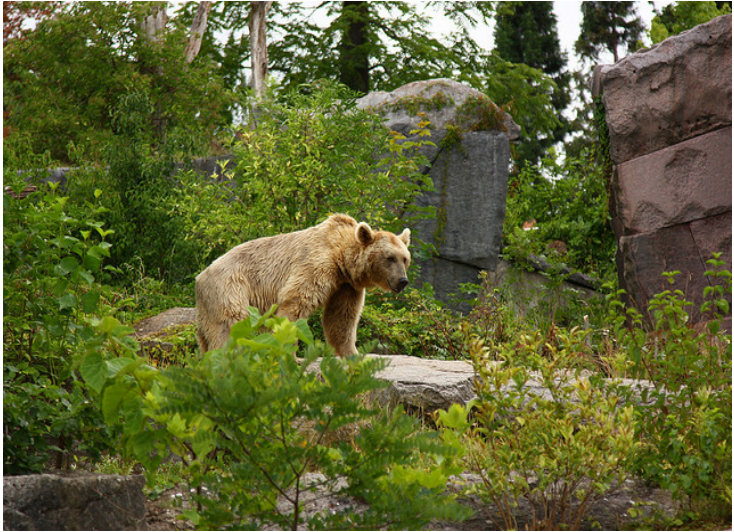
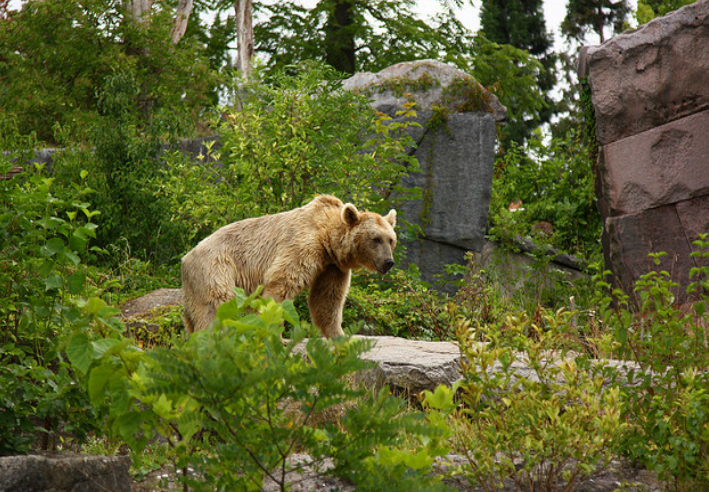
cropped anteater and bear images and removed height attr so images scale well to smaller screens

diff --git a/_posts/2017-08-09-novel-object-captioning.md b/_posts/2017-08-09-novel-object-captioning.md
@@ -16,11 +16,11 @@ Given an image, humans can easily infer the salient entities in it, and describe
   <tr>
     <td style="text-align:center;">
 			<img src="{{site.url}}{{site.baseurl}}/assets/novel_image_captioning/bear.png"
-			alt="Brown bear in forest" height="250">
+			alt="Brown bear in forest">
 		</td>
     <td style="text-align:center;">
-			<img src="{{site.url}}{{site.baseurl}}/assets/novel_image_captioning/anteater.jpg"
-			alt="Anteater in forest" height="250">
+			<img src="{{site.url}}{{site.baseurl}}/assets/novel_image_captioning/anteater.png"
+			alt="Anteater in forest">
 		</td>
   </tr>
   <tr>
